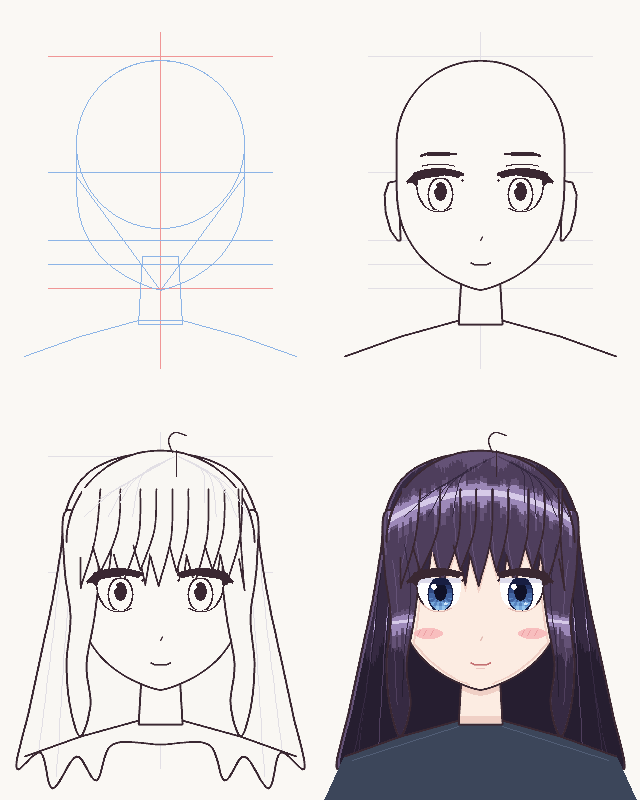
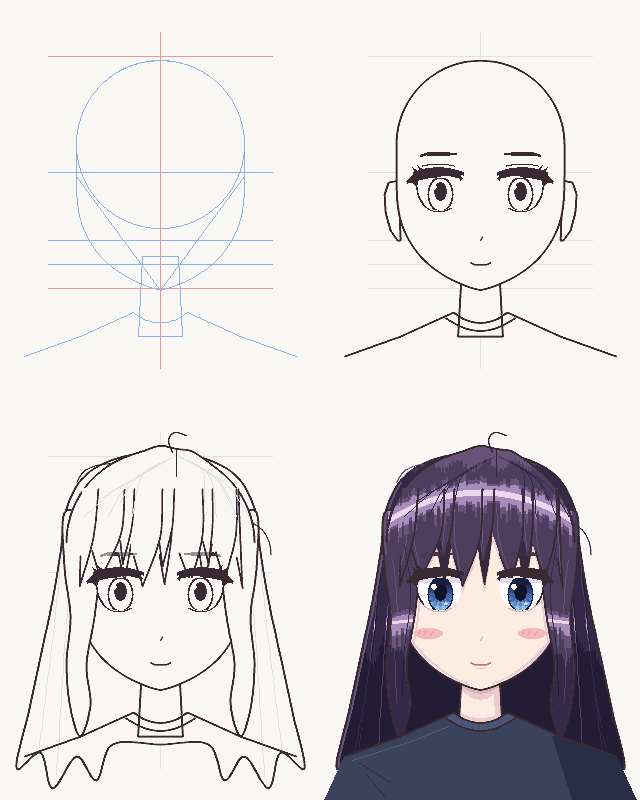
Face study: apply manga book lessons (bold lashes, see-through brows, varied bangs, part lift, light source, collar and folds)
Claude-Session: https://claude.ai/code/session_0155yoUibrhMAmrpcv8V9b9L

diff --git a/draw_face_study.py b/draw_face_study.py
@@ -33,26 +33,29 @@ GUIDE_BLUE = (140, 180, 230)
 GUIDE_FAINT = (226, 223, 229)
 LINE = (58, 40, 50)
 SKIN = (252, 236, 226)
-SKIN_SHADE = (240, 208, 198)
-SKIN_SHADE2 = (226, 186, 178)
-BLUSH = (248, 190, 190)
-BLUSH_LINE = (236, 160, 164)
+SKIN_SHADE = (236, 203, 208)      # shadows lean cool (violet-pink)
+SKIN_SHADE2 = (217, 180, 190)
+BLUSH = (247, 184, 188)
+BLUSH_LINE = (233, 152, 162)
 LIP = (196, 112, 114)
 LIP_HI = (236, 196, 190)
-HAIR = (78, 62, 92)
-HAIR_SHADE = (54, 42, 66)
-HAIR_DEEP = (38, 30, 48)
-HAIR_MID = (100, 82, 118)
-HAIR_HI = (156, 136, 184)
-HAIR_SHINE = (214, 202, 232)
+HAIR = (78, 62, 94)
+HAIR_SHADE = (50, 42, 72)
+HAIR_DEEP = (34, 28, 52)
+HAIR_MID = (104, 84, 122)
+HAIR_HI = (170, 140, 188)        # light is warm: highlights lean pink
+HAIR_SHINE = (236, 214, 236)
 IRIS = [(24, 30, 66), (30, 40, 82), (38, 54, 104), (50, 74, 130), (66, 100, 160),
         (88, 132, 192), (118, 168, 220), (150, 196, 236)]
 PUPIL = (16, 18, 40)
 WHITE = (255, 255, 255)
 SCLERA_SHADE = (222, 220, 236)
 IRIS_GLINT = (210, 230, 250)
-CLOTH = (60, 70, 90)
-CLOTH_HI = (82, 94, 118)
+CLOTH = (58, 66, 92)
+CLOTH_HI = (84, 96, 126)
+CLOTH_DARK = (40, 46, 70)
+COLLAR = (74, 84, 114)
+BROW = (72, 50, 70)
 
 CX = 40
 TOP, CHIN = 14, 72
@@ -89,6 +92,10 @@ def smooth(ctrl, n=8, closed=True):
     if not closed:
         out.append(pts[-1])
     return out
+
+
+def mix(c1, c2, t):
+    return tuple(round(c1[i] * (1 - t) + c2[i] * t) for i in range(3))
 
 
 def mirror(pts):
@@ -227,8 +234,11 @@ def ear_map(pts, side):
     return out
 
 
-NECK = [(35.5, 64), (44.5, 64), (45.5, 81), (34.5, 81)]
-SHOULDERS = [(1, 100), (6, 89), (20, 84), (34.5, 80), (45.5, 80), (60, 84), (74, 89), (79, 100)]
+NECK = [(35.5, 64), (44.5, 64), (45.6, 84), (34.4, 84)]
+# the neckline curves down in front: cloth wraps around the form, it isn't a flat cut (p.76)
+NECKLINE = smooth([(33.2, 78.0), (36.4, 79.9), (40, 80.6), (43.6, 79.9), (46.8, 78.0)], n=6, closed=False)
+COLLAR_LOW = smooth([(31.2, 79.4), (35.7, 81.8), (40, 82.6), (44.3, 81.8), (48.8, 79.4)], n=6, closed=False)
+SHOULDERS = [(1, 100), (6, 89), (20, 84)] + NECKLINE + [(60, 84), (74, 89), (79, 100)]
 
 
 def neck_shift(y):
@@ -249,14 +259,12 @@ BACK_HAIR = smooth([(40, 13), (51, 14.5), (59, 19), (63.5, 27), (65, 38), (67, 5
 BACK_STRANDS = ([(15, 40), (13.5, 56), (11.5, 72), (9.5, 88)], [(17.5, 46), (16, 62), (15, 78), (14, 94)],
                 [(13, 60), (11, 75), (8.5, 88)], [(19, 62), (19, 78), (20, 92)])
 # hair hugging the cranium circle (centre 40,36 r 21) with ~2.5px of thickness
-CROWN_ARC = [(40 + 23.5 * math.cos(math.radians(a)), 35.5 + 23 * math.sin(math.radians(a)))
-             for a in range(180, 361, 4)]
 # Bangs: soft curved clumps (root_l, root_r, tip_x, tip_y), part slightly right of centre
-BANGS = [(20.5, 25, 20, 47), (22, 30, 25, 43), (27, 35, 30.5, 46), (32, 39, 35, 42.5),
-         (36, 43, 39.5, 46.5), (41, 47, 44, 43), (45, 52, 48.5, 46), (49.5, 56, 53, 42.5),
-         (54, 60.5, 56.5, 46), (57.5, 59.5, 61, 47.5)]
+BANGS = [(20.5, 24.5, 19.8, 46.5), (22, 31, 25, 44.5), (29.5, 33.5, 30.5, 41), (32, 40.5, 35.5, 46.5),
+         (39, 43.5, 40.5, 41.5), (42.5, 50.5, 47.5, 45.5), (49, 53, 52, 41), (52, 59, 56, 45),
+         (57, 59.5, 60.5, 47)]
 # A second, darker layer of bangs behind the first, peeking out under the short clumps
-BANGS_BACK = [(23, 28, 26.5, 46.8), (33, 38, 36.2, 46.2), (42, 47, 45.4, 47), (50.5, 55.5, 53.8, 46.2)]
+BANGS_BACK = [(28, 33, 31, 45.5), (38.5, 43, 41, 46), (48.5, 53.5, 51, 45.5)]
 # Side locks: gentle S-curve that frames the face and flips softly at the end
 SIDE_L = smooth([(16, 28), (22, 31), (24.5, 42), (23.5, 54), (21.5, 66), (22.5, 76), (20, 84),
                  (17.5, 77), (16.5, 66), (17.5, 54), (16, 42)])
@@ -269,9 +277,21 @@ FLOW = [(21, 29), (27, 29), (33, 29), (54, 29), (59, 29), (62, 29),
         (24.5, 25), (30, 25.5), (51, 25.5), (57, 25)]
 
 
+def crown_arc():
+    """Top of the hair: follows the skull (a ball keeps its outline when it turns), with a
+    little lift on each side of the part, which turns with the head."""
+    p = turn_x(44, shell_z(44, 12.5))
+    pts = []
+    for a in range(180, 361, 2):
+        x = 40 + 23.5 * math.cos(math.radians(a))
+        y = 35.5 + 23 * math.sin(math.radians(a))
+        lift = 1.15 * (math.exp(-((x - p + 3.8) / 3.6) ** 2) + math.exp(-((x - p - 3.8) / 3.6) ** 2))
+        pts.append((x, y - lift * max(0.0, -math.sin(math.radians(a)))))
+    return pts
+
+
 def crown_poly():
-    # the outline of a ball doesn't change when it turns; only the hairline swings round
-    return CROWN_ARC + [(63.5, 34), (turn_x(40, shell_z(40, 31)), 31), (16.5, 34)]
+    return crown_arc() + [(63.5, 34), (turn_x(40, shell_z(40, 31)), 31), (16.5, 34)]
 
 
 class Pen:
@@ -306,6 +326,19 @@ class Pen:
             for x in range(x0, x1 + 1):
                 if m[x - x0, y - y0] and px[x, y] in only:
                     px[x, y] = fill
+
+    def _apply(self, P, fn, draw):
+        """Rasterise a shape (pixel coords) and recolour each covered pixel to fn(old colour)."""
+        xs, ys = [p[0] for p in P], [p[1] for p in P]
+        x0, x1 = max(0, int(min(xs)) - 3), min(self.img.width - 1, int(max(xs)) + 3)
+        y0, y1 = max(0, int(min(ys)) - 3), min(self.img.height - 1, int(max(ys)) + 3)
+        mask = Image.new("1", (x1 - x0 + 1, y1 - y0 + 1), 0)
+        draw(ImageDraw.Draw(mask), [(x - x0, y - y0) for x, y in P])
+        m, px = mask.load(), self.img.load()
+        for y in range(y0, y1 + 1):
+            for x in range(x0, x1 + 1):
+                if m[x - x0, y - y0]:
+                    px[x, y] = fn(px[x, y])
 
     def poly_clip(self, pts, fill, only):
         """Fill a polygon, but only over pixels that already have one of the `only` colours."""
@@ -456,18 +489,23 @@ def eye(pen, cx, flip, color, scale=1.0, gaze=0.0, hair=False):
         return 2.2 * (1 - (u / (w + 1)) ** 2)
 
     def thick(u):
-        t = 3 + max(0.0, min(1.0, (3 - u) / 4))
+        t = 3.5 + 1.2 * max(0.0, min(1.0, (3 - u) / 4))   # bold lash line (the book's #1 beginner tip)
         if u > w - 1:
             t *= max(0.35, (w + 1.5 - u) / 2.5)
         return t
 
     us = frange(-w - 1.5, w + 1.5)
-    d.polygon([(SX(u), SY(-arch(u) - 1.5)) for u in us] +
-              [(SX(u), SY(-arch(u) - 1.5 + thick(u))) for u in reversed(us)], fill=LINE)
+    d.polygon([(SX(u), SY(-arch(u) - 1.9)) for u in us] +
+              [(SX(u), SY(-arch(u) - 1.9 + thick(u))) for u in reversed(us)], fill=LINE)
+    for base, tip in ((-w + 0.6, (-w - 1.8, -4.4)), (-w + 2.8, (-w + 0.6, -5.2))):   # lash flicks
+        b0, b1 = base - 0.7, base + 0.7
+        d.polygon([(SX(b0), SY(-arch(b0) - 1.6)), (SX(tip[0]), SY(tip[1])), (SX(b1), SY(-arch(b1) - 1.6))],
+                  fill=LINE)
     wing = [(-w - 1.4, -1.0), (-w - 4.8, 2.9), (-w - 4.1, 3.6), (-w - 1.7, 3.0),
             (-w - 0.4, 4.7), (-w + 0.6, 4.2), (-w + 0.6, 1.5)]
     d.polygon([(SX(u), SY(v)) for u, v in wing], fill=LINE)          # outer flick
-    blob(s * (w + 1), 2, 0.6, 0.6, LINE, clip=False)                  # inner corner
+    d.polygon([(SX(u), SY(v)) for u, v in ((w - 0.3, -0.6), (w + 1.2, 1.3), (w + 0.3, 2.3), (w - 0.4, 0.8))],
+              fill=LINE)                                                       # inner corner tick
     if not hair:   # double eyelid crease
         crease = [(SX(u), SY(-4 - 2 * (1 - (u / w) ** 2))) for u in frange(-w + 3, w - 3)]
         pen._clip(crease, SKIN_SHADE2 if color else LINE, {SKIN, SKIN_SHADE, BG},
@@ -484,10 +522,11 @@ def eye(pen, cx, flip, color, scale=1.0, gaze=0.0, hair=False):
     mid, half_len = (ub[0] + ub[-1]) / 2, (ub[-1] - ub[0]) / 2
     bv = lambda u: -11 + max(0.0, min(1.0, (-w + 5 - u) / 3))
     bt = lambda u: 0.3 + 0.32 * (1 - ((u - mid) / half_len) ** 2)
-    if not hair:
-        brow = [(SX(u), SY(bv(u) - bt(u))) for u in ub] + [(SX(u), SY(bv(u) + bt(u))) for u in reversed(ub)]
-        pen._clip(brow, HAIR_SHADE if color else LINE, {SKIN, SKIN_SHADE, BG},
-                  lambda md, q: md.polygon(q, fill=1))
+    # "Don't skip the eyebrows!" (p.16): full colour on skin, half-strength through the bangs
+    brow = [(SX(u), SY(bv(u) - bt(u))) for u in ub] + [(SX(u), SY(bv(u) + bt(u))) for u in reversed(ub)]
+    ink = BROW if color else LINE
+    pen._apply(brow, lambda c: ink if c in (SKIN, SKIN_SHADE, SKIN_SHADE2, BG) else mix(c, ink, 0.5),
+               lambda md, q: md.polygon(q, fill=1))
 
 
 def eye_layout():
@@ -541,21 +580,17 @@ def face_shading(pen):
     edge = smooth(LOCK_EDGE, n=6, closed=False)                 # side locks shade the cheeks
     pen.line_clip(warp(edge, lock_z), SKIN_SHADE, only, width=round(E))
     pen.line_clip(warp(mirror(edge), lock_z), SKIN_SHADE, only, width=round(E))
-    if TURN:
-        # the side of the face turning away from the light falls into shadow
-        f = abs(TURN) / 15
-        outer, inner = [], []
-        for i in range(53):
-            y = 45 + i * 0.5
-            lo, hi = silhouette(y)
-            w = (1.9 - 0.9 * (y - 45) / 26) * f
-            if TURN > 0:
-                outer.append((CX + hi + 0.6, y))
-                inner.append((CX + hi - w, y))
-            else:
-                outer.append((CX + lo - 0.6, y))
-                inner.append((CX + lo + w, y))
-        pen.poly_clip(outer + inner[::-1], SKIN_SHADE, only)
+    # light from the upper left: the right side of the face sits in soft shadow,
+    # and more of it once the head turns that side away
+    f = 0.55 + 0.45 * max(0.0, TURN) / 15
+    outer, inner = [], []
+    for i in range(53):
+        y = 45 + i * 0.5
+        lo, hi = silhouette(y)
+        w = (1.9 - 0.9 * (y - 45) / 26) * f
+        outer.append((CX + hi + 0.6, y))
+        inner.append((CX + hi - w, y))
+    pen.poly_clip(outer + inner[::-1], SKIN_SHADE, only)
     for side in (-1, 1):                                        # blush follows the cheek
         bx = CX + side * 13
         z = lambda x: face_z(x, 58.25)
@@ -606,7 +641,11 @@ def hair_front(pen, step):
         pen.poly(pts, fill=hf)
         pen.aa_line(pts, LINE, closed=True)
     pen.poly(crown_poly(), fill=hf)
-    pen.aa_line(CROWN_ARC, LINE)
+    pen.aa_line(crown_arc(), LINE)
+    # a couple of stray hairs make the silhouette more interesting (p.27)
+    for wisp in (smooth([(27.5, 15.8), (23.5, 16.4), (20.6, 18.0), (19.0, 20.6)], n=6, closed=False),
+                 smooth([(63.0, 30.5), (65.6, 32.6), (67.2, 35.6), (67.6, 38.6)], n=6, closed=False)):
+        pen.aa_line(wisp, HAIR_SHADE if color else LINE, width=0.5 * E)
     pen.poly([(20.5, 25), (59.5, 25), (63, 32), (17, 32)], fill=hf)
     # back layer of bangs
     back = bang_clumps(BANGS_BACK)
@@ -776,20 +815,32 @@ def panel(img, ox, oy, step):
                 pen.line(ln, fill=GUIDE_FAINT)
                 pen.line(mirror(ln), fill=GUIDE_FAINT)
         pen.aa_line(BACK_HAIR, LINE, closed=True)
-    # clothes
-    if color:
-        pen.poly(SHOULDERS, fill=CLOTH)
-        pen.aa_line(SHOULDERS[1:-1], LINE)
-        pen.line([(8, 90), (22, 85.5), (34.5, 81.5)], fill=CLOTH_HI)
-        pen.line(mirror([(8, 90), (22, 85.5), (34.5, 81.5)]), fill=CLOTH_HI)
-    else:
-        pen.aa_line(SHOULDERS[1:-1], LINE)
-    # neck
+    # neck (the clothes overlap its base)
     pen.poly(neck, fill=SKIN if color else BG)
     pen.aa_line(neck[1:] + neck[:1], LINE)
+    # clothes: a crew neck that wraps around the neck, a few tension folds from the shoulders
+    collar = NECKLINE + COLLAR_LOW[::-1]
     if color:
-        pen.poly_clip([(x, y + 1.4) for x, y in face if y >= 62], SKIN_SHADE, {SKIN})   # under the chin
-        pen.poly_clip([(34.5, 79), (45.5, 79), (45.5, 81), (34.5, 81)], SKIN_SHADE, {SKIN})
+        pen.poly(SHOULDERS, fill=CLOTH)
+        pen.poly([(58, 84), (60, 84), (74, 89), (79, 100), (63, 100), (60.5, 92)], fill=CLOTH_DARK)   # shadow side
+        pen.line([(8, 90), (22, 85.5), (32, 81.4)], fill=CLOTH_HI)                                     # lit shoulder
+        for a, b in (((9.5, 90.6), (17.5, 95.4)), ((11.5, 93.4), (16.2, 99.2)), ((70.5, 90.6), (63.5, 94.8))):
+            pen.line([a, b], fill=CLOTH_DARK, width=max(1, round(E / 2)))                             # folds
+        pen.poly(collar, fill=COLLAR)
+        for k in range(1, 12):                                                                         # ribbing
+            t = k / 12
+            i, j = round(t * (len(NECKLINE) - 1)), round(t * (len(COLLAR_LOW) - 1))
+            pen.line([NECKLINE[i], COLLAR_LOW[j]], fill=CLOTH_HI)
+    pen.aa_line(SHOULDERS[1:-1], LINE)
+    pen.aa_line(COLLAR_LOW, LINE)
+    if color:
+        cx_chin = chin_point()[0]
+        jaw = [(x, y) for x, y in face if y >= 62]
+        drop = lambda x, y, base, extra: (x, y + base + extra * max(0.0, 1 - abs(x - cx_chin) / 9))
+        pen.poly_clip([drop(x, y, 1.0, 1.7) for x, y in jaw], SKIN_SHADE, {SKIN})        # shadow under the jaw
+        pen.poly_clip([drop(x, y, 0.3, 0.8) for x, y in jaw], SKIN_SHADE2, {SKIN_SHADE})  # darkest right under the chin
+        pen.poly_clip(neck_warp([(43.0, 64), (44.5, 64), (45.6, 84), (44.0, 84)]), SKIN_SHADE, {SKIN})   # shadow side
+        pen.poly_clip([(x, y - 1.1) for x, y in NECKLINE] + NECKLINE[::-1], SKIN_SHADE, {SKIN})   # collar shadow
         if TURN:   # neck muscle shows on the side that turns away
             pen.line_clip([(CX + 4.2 + neck_shift(69), 69), (CX + 0.8, 80.5)], SKIN_SHADE, {SKIN}, width=round(E))
     # ears and face
